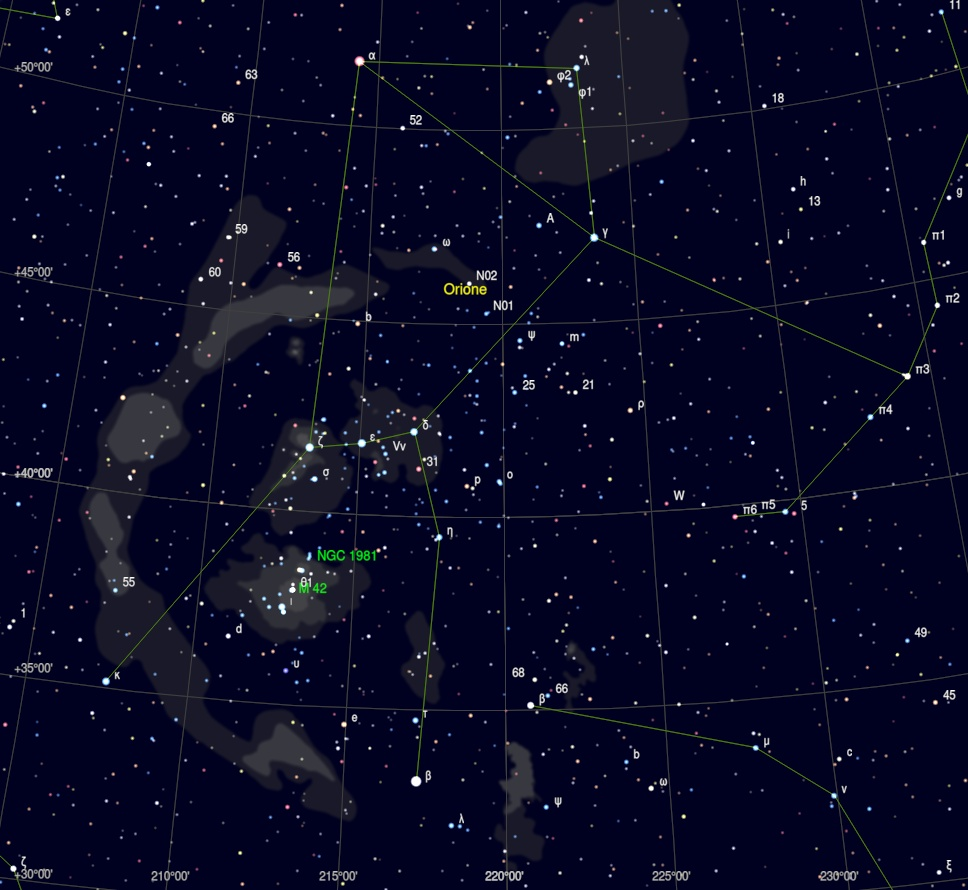
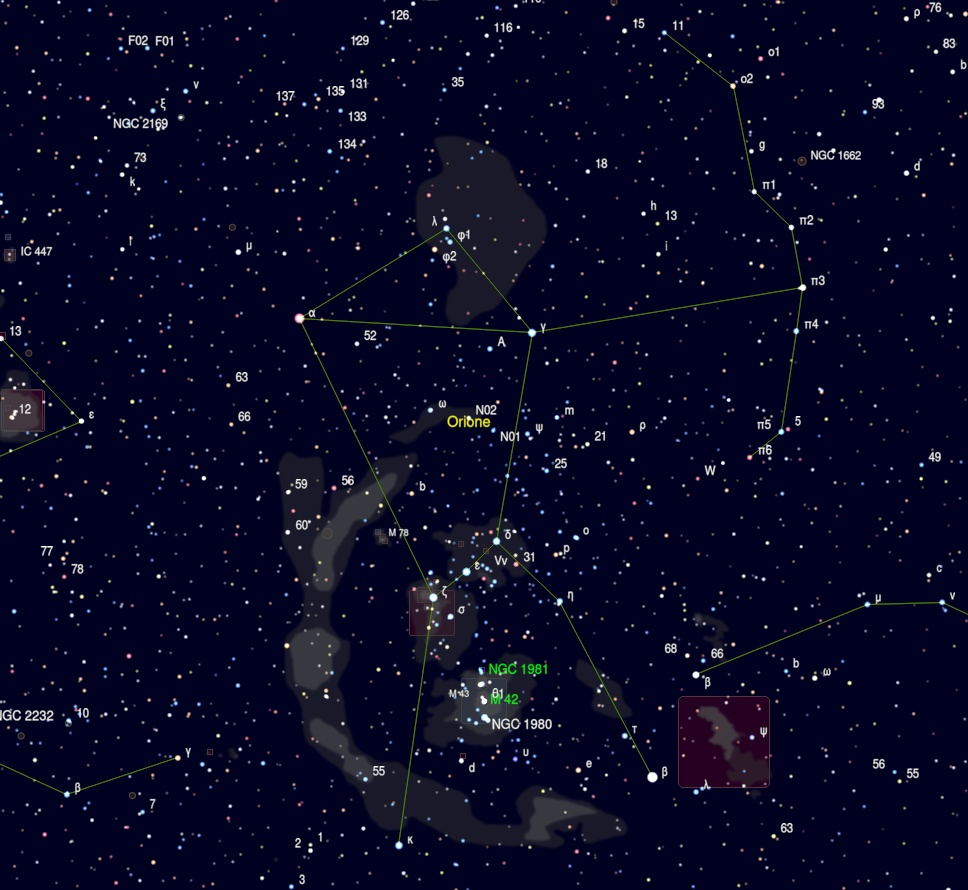
Terminata lista oggetti con cartine

diff --git a/00.18-03-2023.Primo Report/REPORT.md b/00.18-03-2023.Primo Report/REPORT.md
@@ -16,9 +16,9 @@ sabato 18 marzo 2023
 
 Ci tenevo molto a questa serata, non sapevo cosa
 
-### Costellazione di Orione - Ori
+### Orione - Ori
 
-![Constellazione di orione con oggetti](./ori.jpg)
+![Orione con oggetti](./ori.jpg)
 
 | Catalogo Messier | Catalogo NGC | Nome | Tipologia | Magnitudine apparente | Dimensione apparente
 | ----------- | ----------- | ----------- | ----------- | ----------- | ----------- |
@@ -28,7 +28,9 @@ Ci tenevo molto a questa serata, non sapevo cosa
 Ho iniziato con un classico che non volevo farmi sfuggire, anche se ormai fuori periodo. Ho puntato subito ad M42, non mi stanco mai nel vederla. Volevo inoltre confrontare ciò che ho visto sul terrazzo di casa nella serata di test del telescopio rispetto al cielo del Pollino, decisamente migliore. La nebulosa ai miei occhi appariva di un colore verdastro, rispetto alla visione "casalinga" ho notato un maggior contrasto e una ricchezza maggiore di particolari, il miglior equilibrio tra luminosita e dettagli l'ho avuto a 73x. Successivamente mi sono spostato e ho localizzato subito l'ammasso NGC 1981, in cui, facendo un po' di attenzione, erano presenti delle tenui nebulosità.
 
 
-### Costellazione del Toro - Tau
+### Toro - Tau
+
+![Orione con oggetti](./tau.jpg)
 
 | Catalogo Messier | Catalogo NGC | Nome | Tipologia | Magnitudine apparente | Dimensione apparente
 | ----------- | ----------- | ----------- | ----------- | ----------- | ----------- |
@@ -39,7 +41,9 @@ Ho iniziato con un classico che non volevo farmi sfuggire, anche se ormai fuori 
 Ho voluto continuare il riscaldamento, puntando alle Pleiadi: trovate facilmente. A 48x, ovviamente, l'ammasso non ci entrava, mi sono letteralmente perso al suo interno! Visibili anche qui tenui nebulosità accanto alle stelle più luminose.
 NGC 1647 e NGC 1746, in tutta sincerità, non mi hanno impressionato particolarmente, anche se complessivamente entrambi gradevoli. Mi sono ripromesso di rivederli successivamente con più esperienza e migliori capacità di analisi.
 
-### Costellazione dell'Orsa Maggiore - UMa
+### Orsa Maggiore - UMa
+
+![Orsa Maggiore con oggetti](./uma.jpg)
 
 | Catalogo Messier | Catalogo NGC | Nome | Tipologia | Magnitudine apparente | Dimensione apparente
 | ----------- | ----------- | ----------- | ----------- | ----------- | ----------- |
@@ -51,3 +55,93 @@ NGC 1647 e NGC 1746, in tutta sincerità, non mi hanno impressionato particolarm
 | M101 | NGC 5457 | Galassia Girandola | Galassia a spirale | 8,3 | 28,8' × 26,9' |
 
 Qui le cose hanno iniziato a farsi decisamente più interessanti. 
+
+### Cani da Caccia - Cvn
+
+![Cani da Caccia con oggetti](./cvn.jpg)
+
+![Dettaglio Cani da Caccia](./cvn_1.jpg)
+
+
+| Catalogo Messier | Catalogo NGC | Nome | Tipologia | Magnitudine apparente | Dimensione apparente
+| ----------- | ----------- | ----------- | ----------- | ----------- | ----------- |
+| M3 | NGC 5272 | | Ammasso globulare | 6,2 | 18' |
+| | NGC 4485 | | Galassia irregolare | 11,93 | |
+| | NGC 4490 |  Cocoon Galaxy | Galassia a spirale barrata | 9,8 | 6,3' x 3,1' |
+| M94 | NGC 4736 | | Galassia a spirale | 9,0 | 11.2' × 9.1' |
+| | NGC 4618 | | Galassia a spirale barrata | 11,2 | 4,2' × 3,4' | 
+| | NGC 4625 | | Galassia nana | 13,2 | 1.3' × 1.2' |
+
+M3 prima parte 
+Coppia galassie 4618 (debole) 4625(molto debole)
+
+### Chioma di Berenice - Com
+
+![Chioma di Berenice con oggetti](./com.jpg)
+
+| Catalogo Messier | Catalogo NGC | Nome | Tipologia | Magnitudine apparente | Dimensione apparente
+| ----------- | ----------- | ----------- | ----------- | ----------- | ----------- |
+| M53 | NGC 5024 | | Ammasso globulare | 7,4 | 12,6' |
+|  | NGC 4565 | Galassia Ago | Galassia a spirale | 9,7 | 15,8' x 2,1' |
+
+### Cancro - Cnc
+
+![Cancro con oggetti](./cnc.jpg)
+
+| Catalogo Messier | Catalogo NGC | Nome | Tipologia | Magnitudine apparente | Dimensione apparente
+| ----------- | ----------- | ----------- | ----------- | ----------- | ----------- |
+| M44 | NGC 2632 | Ammasso del presepe o alveare | Ammasso aperto | 3,1 | 95' |
+| M67 | NGC 2682 | | Ammasso aperto | 6,1 | 30'|
+
+### Leone - Leo
+
+![Leone con oggetti](./leo.jpg)
+
+![Dettaglio Leone con oggetti](./leo_1.jpg)
+
+| Catalogo Messier | Catalogo NGC | Nome | Tipologia | Magnitudine apparente | Dimensione apparente
+| ----------- | ----------- | ----------- | ----------- | ----------- | ----------- |
+| | NGC 3377 | | Galassia ellittica | 10,2 | 4,2' x 2,3' |
+| | NGC 3412 | | Galassia lenticolare | 10,54 | 3,6' × 2,0' | 
+| | NGC 3384 | | Galassia ellittica | 10,9 | 5,5' x 2,5' | 
+| M105 | NGC 3379 | | Galassia ellittica | 9,3 | 5,4' x 4,8' | 
+| NGC 3389 | | Galassia a spirale | 12,4 | 2.7' x 1.3' | 
+| M96 | NGC 3368 | | Galassia a spirale intermedia | 9,24 | 7,6' × 5,2' | 
+| M95 | NGC 3351 | | Galassia a spirale barrata | 9,7 | 7,4' × 5,1' |
+
+Gruppo di M96 ( M95, M96, M105, NGC 3299, NGC 3377, NGC 3384, NGC 3412, NGC 3489)
+NGC 3389 scarsamente visibile
+
+### Serpente - Ser
+
+![Serpente con oggetti](./ser.jpg)
+
+| Catalogo Messier | Catalogo NGC | Nome | Tipologia | Magnitudine apparente | Dimensione apparente
+| ----------- | ----------- | ----------- | ----------- | ----------- | ----------- |
+| M5 | NGC 5904 | | Ammasso globulare | 5,6 | 23' |
+Forma che richiama spirale m5
+
+### Vergine - Vir
+
+![Vergine con oggetti](./vir.jpg)
+
+| Catalogo Messier | Catalogo NGC | Nome | Tipologia | Magnitudine apparente | Dimensione apparente
+| ----------- | ----------- | ----------- | ----------- | ----------- | ----------- |
+| M104 | NGC 5904 | Galassia sombrero | Galassia a spirale | 8,98 | 8,7' x 3,5' |
+
+### Ercole - Her
+
+![Ercole con oggetti](./her.jpg)
+
+| Catalogo Messier | Catalogo NGC | Nome | Tipologia | Magnitudine apparente | Dimensione apparente
+| ----------- | ----------- | ----------- | ----------- | ----------- | ----------- |
+| M 13 | NGC 6205 | Ammasso Globulare di Ercole | Ammasso Globulare | 5,8 | 23' |
+| M 92 | NGC 6341 | | Ammasso Globulare | 6,3 | 11,2' |
+
+### Lira - Lyr
+
+![Lira con oggetti](./lyr.jpg)
+
+| Catalogo Messier | Catalogo NGC | Nome | Tipologia | Magnitudine apparente | Dimensione apparente
+| ----------- | ----------- | ----------- | ----------- | ----------- | ----------- |
+| M 57 | NGC 6720 | Nebulosa Anello | Nebulosa Planetaria | 9,7 | 230" x 230" |
